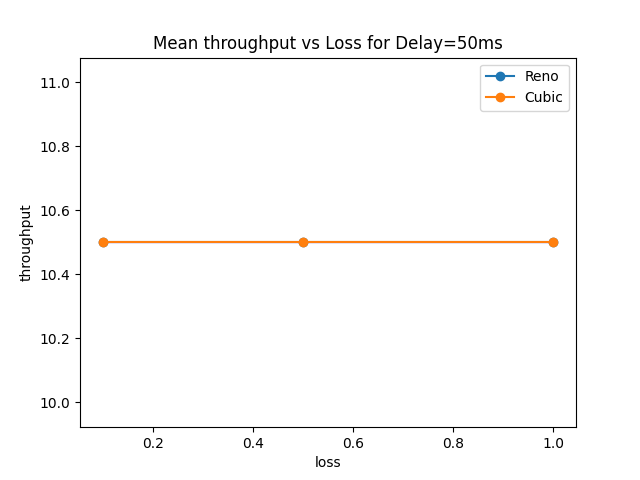
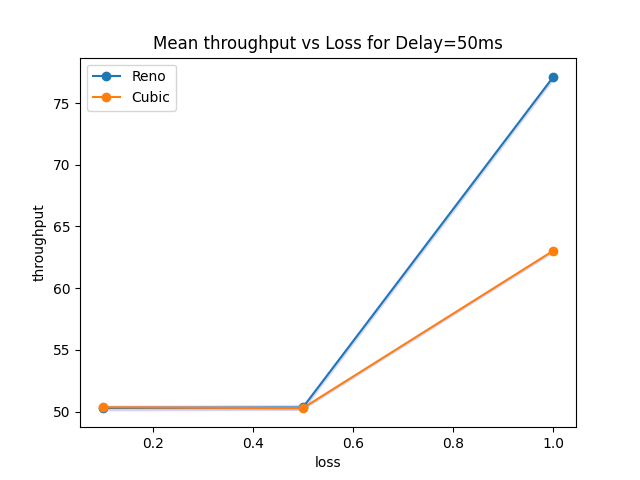
all done

diff --git a/plotter.py b/plotter.py
@@ -1,4 +1,4 @@
-import matplotlib.pyplot as plt
+from matplotlib import pyplot as plt
 import numpy as np
  
 reno=[]
@@ -14,21 +14,12 @@ with open('results.txt','r') as f:
             reno=[]
             cubic=[]
         elif(counter%3 == 1):
-            if (line[-1] == '\n'):
-                reno = line[9:-1].split(" ")
-                reno = [float(i) for i in reno]
-            else:
-                reno = line[9:].split(" ")
-                reno = [float(i) for i in reno]
+        	reno = line[0:-2].split(" ")
+        	reno = [float(i) for i in reno] # gives throughput in GBps
         elif(counter%3 == 2):
-            if (line[-1] == '\n'):
-                cubic = line[10:-1].split(" ")
-                cubic = [float(i) for i in cubic]
-            else:
-                cubic = line[10:].split(" ")
-                cubic = [float(i) for i in cubic]
-        if(line[0]!='m'):
-            counter = counter + 1
+        	cubic = line[0:-2].split(" ")
+        	cubic = [float(i) for i in cubic] # gives throughput in GBps
+        counter+=1
         if(counter%3 == 0 and counter>0):
             renotp_mean.append(np.mean(reno))
             renotp_std.append(np.std(reno))
@@ -49,30 +40,34 @@ loss = np.array([0.1,0.5,1])
 for i in range(3):
     ycubic = np.array([cubictp_mean[i],cubictp_mean[i+3],cubictp_mean[i+6]])
     yreno = np.array([renotp_mean[i],renotp_mean[i+3],renotp_mean[i+6]])
-    cireno = 0.9*np.std(yreno)/np.mean(yreno)
-    cicubic = 0.9*np.std(ycubic)/np.mean(ycubic)
-    plt.plot(delay,yreno,label="Reno",marker='o')
-    plt.fill_between(delay,yreno-cireno,yreno+cireno,color='blue',alpha=0.1)
-    plt.plot(delay,ycubic,label="Cubic",marker='o')
-    plt.fill_between(delay,ycubic-cicubic,ycubic+cicubic,color='blue',alpha=0.1)
+    reno_std = np.array([renotp_std[i],renotp_std[i+3],renotp_std[i+6]])
+    cubic_std = np.array([cubictp_std[i],cubictp_std[i+3],cubictp_std[i+6]])
+    # cireno = 0.9*np.std(yreno)/np.mean(yreno)
+    # cicubic = 0.9*np.std(ycubic)/np.mean(ycubic)
+    plt.errorbar(delay, yreno, yerr = 1.645*reno_std, label="Reno", marker='.', alpha = 0.5)
+    # plt.fill_between(delay,yreno-cireno,yreno+cireno,color='blue',alpha=0.1)
+    plt.errorbar(delay,ycubic, yerr = 1.645*cubic_std, label="Cubic", marker='.',  alpha = 0.5)
+    # plt.fill_between(delay,ycubic-cicubic,ycubic+cicubic,color='blue',alpha=0.1)
     plt.title('Mean throughput vs Delay for Loss=%s'%loss[i])
-    plt.xlabel('delay')
-    plt.ylabel('throughput')
+    plt.xlabel('Delay')
+    plt.ylabel('Throughput')
     plt.legend()
-    plt.savefig('Plot-%s.png'%(i+1))
+    plt.savefig('Figures/Plot-%s.png'%(i+1))
     plt.figure()
 for i in range(3):
     ycubic = np.array([cubictp_mean[3*i],cubictp_mean[3*i+1],cubictp_mean[3*i+2]])
     yreno = np.array([renotp_mean[3*i],renotp_mean[3*i+1],renotp_mean[3*i+2]])
-    cireno = 0.9*np.std(yreno)/np.mean(yreno)
-    cicubic = 0.9*np.std(ycubic)/np.mean(ycubic)
-    plt.plot(loss,yreno,label="Reno",marker='o')
-    plt.fill_between(loss,yreno-cireno,yreno+cireno,color='blue',alpha=0.1)
-    plt.plot(loss,ycubic,label="Cubic",marker='o')
-    plt.fill_between(loss,ycubic-cicubic,ycubic+cicubic,color='blue',alpha=0.1)
+    reno_std = np.array([renotp_std[3*i],renotp_std[3*i+1],renotp_std[3*i+2]])
+    cubic_std = np.array([cubictp_std[3*i],cubictp_std[3*i+1],cubictp_std[3*i+2]])
+    # cireno = 0.9*np.std(yreno)/np.mean(yreno)
+    # cicubic = 0.9*np.std(ycubic)/np.mean(ycubic)
+    plt.errorbar(loss,yreno, yerr = 1.645*reno_std,label="Reno",marker='.', alpha = 0.5)
+    # plt.fill_between(loss,yreno-cireno,yreno+cireno,color='blue',alpha=0.1)
+    plt.errorbar(loss,ycubic, yerr = 1.645*cubic_std,label="Cubic",marker='.', alpha = 0.5)
+    # plt.fill_between(loss,ycubic-cicubic,ycubic+cicubic,color='blue',alpha=0.1)
     plt.title('Mean throughput vs Loss for Delay=%sms'%delay[i])
-    plt.xlabel('loss')
-    plt.ylabel('throughput')
+    plt.xlabel('Loss')
+    plt.ylabel('Throughput')
     plt.legend()
-    plt.savefig('Plot-%s.png'%(i+4))
+    plt.savefig('Figures/Plot-%s.png'%(i+4))
     plt.figure()
